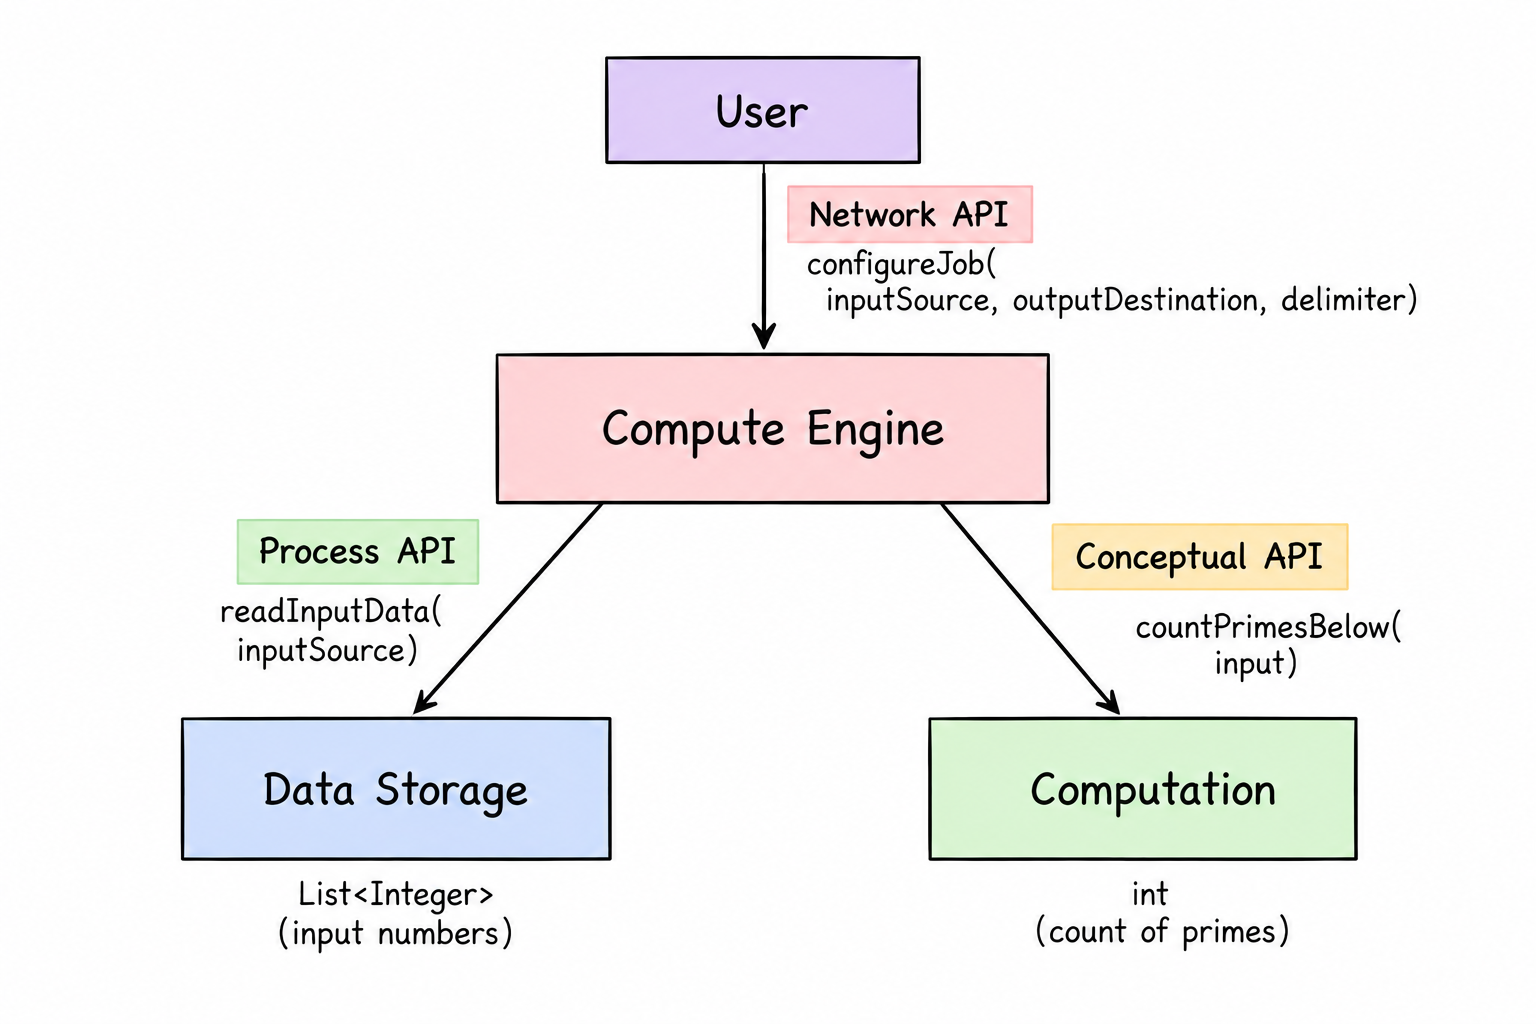
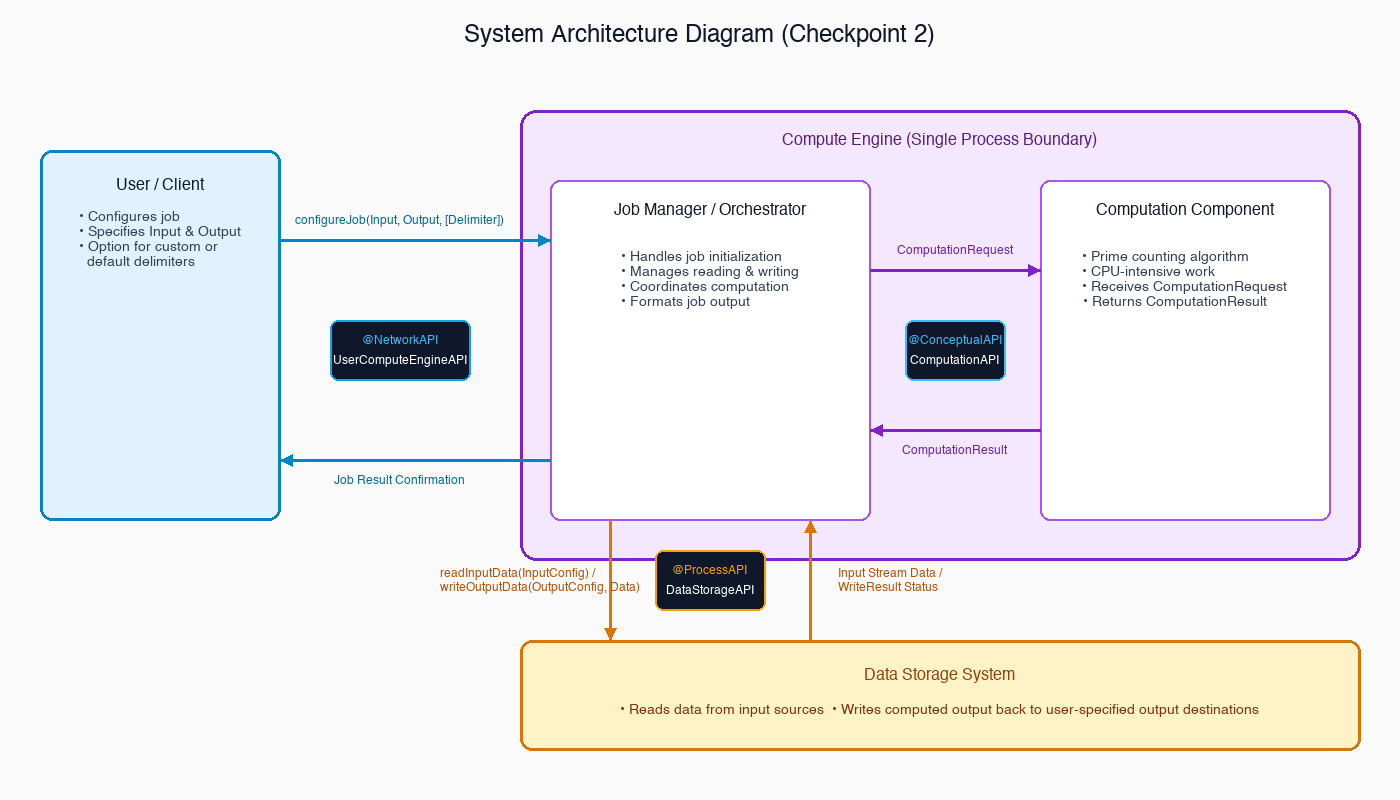
Addressing feedback comments and checkpoint 2a (#5)
* Refactor Network API: Add generic Input/Output objects and default delimiter support

* Refactor Process API: Add writeOutputData method and generic config objects

* Refactor Conceptual API: Replace primitive int with ComputationRequest and ComputationResult objects

* Update system architecture diagram and README documentation for Checkpoint 2

diff --git a/test/TestUserComputeEngineAPI.java b/test/TestUserComputeEngineAPI.java
@@ -1,9 +1,7 @@
 import api.ComputationAPI;
-import api.ComputeJobRequest;
-import api.ComputeJobResponse;
-import api.ComputeJobStatus;
 import api.DataStorageAPI;
 import api.InputConfig;
+import api.JobResult;
 import api.OutputConfig;
 import api.UserComputeEngineAPI;
 import api.UserComputeEngineAPIImpl;
@@ -11,8 +9,6 @@ import api.UserComputeEngineAPIImpl;
 import org.junit.jupiter.api.Assertions;
 import org.junit.jupiter.api.Test;
 import org.mockito.Mockito;
-
-import java.util.List;
 
 public class TestUserComputeEngineAPI {
 
@@ -23,15 +19,10 @@ public class TestUserComputeEngineAPI {
         InputConfig mockInputConfig = Mockito.mock(InputConfig.class);
         OutputConfig mockOutputConfig = Mockito.mock(OutputConfig.class);
 
-        Mockito.when(mockDataStorage.readInputData(mockInputConfig)).thenReturn(List.of(1, 10, 25));
-        Mockito.when(mockComputation.countPrimesBelow(10)).thenReturn(4);
-
         UserComputeEngineAPI engine = new UserComputeEngineAPIImpl(mockDataStorage, mockComputation);
-        ComputeJobRequest request = new ComputeJobRequest(mockInputConfig, mockOutputConfig);
-
-        ComputeJobResponse response = engine.compute(request);
+        JobResult response = engine.configureJob(mockInputConfig, mockOutputConfig);
 
         Assertions.assertNotNull(response);
-        Assertions.assertEquals(ComputeJobStatus.SUCCESS, response.getStatus());
+        Assertions.assertEquals(JobResult.Status.SUCCESS, response.getStatus());
     }
 }

diff --git a/test/InMemoryDataStorage.java b/test/InMemoryDataStorage.java
@@ -1,16 +1,12 @@
 import api.DataStorageAPI;
 import api.InputConfig;
 import api.OutputConfig;
+import api.WriteResult;
 
 import java.util.Collections;
 import java.util.List;
 
 public class InMemoryDataStorage implements DataStorageAPI {
-
-    @Override
-    public List<Integer> readInputData(String inputSource) {
-        return Collections.emptyList();
-    }
 
     @Override
     public List<Integer> readInputData(InputConfig inputConfig) {
@@ -21,9 +17,11 @@ public class InMemoryDataStorage implements DataStorageAPI {
     }
 
     @Override
-    public void writeOutputData(OutputConfig outputConfig, List<String> outputData) {
+    public WriteResult writeOutputData(OutputConfig outputConfig, List<String> outputData) {
         if (outputConfig instanceof InMemoryOutputConfig inMemoryOutput) {
             inMemoryOutput.getOutputs().addAll(outputData);
+            return new WriteResult(WriteResult.Status.SUCCESS, "Success");
         }
+        return new WriteResult(WriteResult.Status.FAILURE, "Unsupported config");
     }
 }

diff --git a/src/api/DelimiterConfig.java b/src/api/DelimiterConfig.java
@@ -1,0 +1,35 @@
+package api;
+
+public class DelimiterConfig {
+    private final String itemDelimiter;
+    private final String keyValueDelimiter;
+    private final boolean isDefault;
+
+    public DelimiterConfig(String itemDelimiter, String keyValueDelimiter) {
+        this.itemDelimiter = itemDelimiter;
+        this.keyValueDelimiter = keyValueDelimiter;
+        this.isDefault = false;
+    }
+
+    private DelimiterConfig() {
+        this.itemDelimiter = ";";
+        this.keyValueDelimiter = ":";
+        this.isDefault = true;
+    }
+
+    public static DelimiterConfig defaultConfig() {
+        return new DelimiterConfig();
+    }
+
+    public String getItemDelimiter() {
+        return itemDelimiter;
+    }
+
+    public String getKeyValueDelimiter() {
+        return keyValueDelimiter;
+    }
+
+    public boolean isDefault() {
+        return isDefault;
+    }
+}

diff --git a/src/api/UserComputeEngineAPIImpl.java b/src/api/UserComputeEngineAPIImpl.java
@@ -11,13 +11,12 @@ public class UserComputeEngineAPIImpl implements UserComputeEngineAPI {
     }
 
     @Override
-    public void configureJob(String inputSource, String outputDestination, char delimiter) {
-        // Empty implementation for checkpoint 3
+    public JobResult configureJob(InputConfig inputSource, OutputConfig outputDestination, DelimiterConfig delimiterConfig) {
+        return new JobResult(JobResult.Status.FAILURE, "Not yet implemented");
     }
 
     @Override
-    public ComputeJobResponse compute(ComputeJobRequest request) {
-        // Returns default failure response for checkpoint 3
-        return new ComputeJobResponse(ComputeJobStatus.FAILURE, "Not yet implemented");
+    public JobResult configureJob(InputConfig inputSource, OutputConfig outputDestination) {
+        return new JobResult(JobResult.Status.FAILURE, "Not yet implemented");
     }
 }

diff --git a/src/api/DataStorageAPIImpl.java b/src/api/DataStorageAPIImpl.java
@@ -9,17 +9,12 @@ public class DataStorageAPIImpl implements DataStorageAPI {
     }
 
     @Override
-    public List<Integer> readInputData(String inputSource) {
+    public List<Integer> readInputData(InputConfig inputSource) {
         return Collections.emptyList();
     }
 
     @Override
-    public List<Integer> readInputData(InputConfig inputConfig) {
-        return Collections.emptyList();
-    }
-
-    @Override
-    public void writeOutputData(OutputConfig outputConfig, List<String> outputData) {
-        // Empty implementation for checkpoint 3
+    public WriteResult writeOutputData(OutputConfig outputDestination, List<String> outputData) {
+        return new WriteResult(WriteResult.Status.FAILURE, "Not yet implemented");
     }
 }

diff --git a/src/api/DataStoragePrototype.java b/src/api/DataStoragePrototype.java
@@ -1,13 +1,21 @@
 package api;
 
 import project.annotations.ProcessAPIPrototype;
-
+import java.util.ArrayList;
 import java.util.List;
 
 public class DataStoragePrototype {
 
     @ProcessAPIPrototype
     public void prototypeDataStorage(DataStorageAPI api) {
-        List<Integer> mockData = api.readInputData("input.txt");
+        InputConfig inputSource = new FileInputConfig("input.txt");
+        OutputConfig outputDestination = new FileOutputConfig("output.txt");
+
+        List<Integer> mockInputData = api.readInputData(inputSource);
+
+        List<String> outputData = new ArrayList<>();
+        outputData.add("10:4");
+
+        WriteResult writeResult = api.writeOutputData(outputDestination, outputData);
     }
 }

diff --git a/test/ComputeEngineIntegrationTest.java b/test/ComputeEngineIntegrationTest.java
@@ -1,6 +1,5 @@
 import api.ComputationAPI;
 import api.ComputationAPIImpl;
-import api.ComputeJobRequest;
 import api.DataStorageAPI;
 import api.UserComputeEngineAPI;
 import api.UserComputeEngineAPIImpl;
@@ -21,8 +20,7 @@ public class ComputeEngineIntegrationTest {
         InMemoryInputConfig inputConfig = new InMemoryInputConfig(List.of(1, 10, 25));
         InMemoryOutputConfig outputConfig = new InMemoryOutputConfig();
 
-        ComputeJobRequest request = new ComputeJobRequest(inputConfig, outputConfig);
-        realEngine.compute(request);
+        realEngine.configureJob(inputConfig, outputConfig);
 
         Assertions.assertEquals(List.of("0", "4", "9"), outputConfig.getOutputs());
     }

diff --git a/src/api/UserComputeEnginePrototype.java b/src/api/UserComputeEnginePrototype.java
@@ -6,6 +6,14 @@ public class UserComputeEnginePrototype {
 
     @NetworkAPIPrototype
     public void prototypeUserComputeEngine(UserComputeEngineAPI api) {
-        api.configureJob("input.txt", "output.txt", ',');
+        InputConfig inputSource = new FileInputConfig("input.txt");
+        OutputConfig outputDestination = new FileOutputConfig("output.txt");
+
+        // 1. Configure job with explicit custom delimiters
+        DelimiterConfig customDelimiters = new DelimiterConfig(";", ":");
+        api.configureJob(inputSource, outputDestination, customDelimiters);
+
+        // 2. Configure job with default delimiters
+        api.configureJob(inputSource, outputDestination);
     }
 }

diff --git a/test/TestComputationAPI.java b/test/TestComputationAPI.java
@@ -1,5 +1,7 @@
 import api.ComputationAPI;
 import api.ComputationAPIImpl;
+import api.ComputationRequest;
+import api.ComputationResult;
 
 import org.junit.jupiter.api.Assertions;
 import org.junit.jupiter.api.Test;
@@ -10,8 +12,9 @@ public class TestComputationAPI {
     public void testCountPrimesBelowSmoke() {
         ComputationAPI computation = new ComputationAPIImpl();
 
-        int result = computation.countPrimesBelow(10);
+        ComputationResult result = computation.countPrimesBelow(new ComputationRequest(10));
 
-        Assertions.assertEquals(4, result);
+        Assertions.assertNotNull(result);
+        Assertions.assertEquals(4, result.getPrimeCount());
     }
 }

diff --git a/src/api/UserComputeEngineAPI.java b/src/api/UserComputeEngineAPI.java
@@ -5,11 +5,9 @@ import project.annotations.NetworkAPI;
 @NetworkAPI
 public interface UserComputeEngineAPI {
 
-    void configureJob(
-            String inputSource,
-            String outputDestination,
-            char delimiter
-    );
+    // Method allowing custom delimiters
+    JobResult configureJob(InputConfig inputSource, OutputConfig outputDestination, DelimiterConfig delimiterConfig);
 
-    ComputeJobResponse compute(ComputeJobRequest request);
+    // Method allowing default delimiters
+    JobResult configureJob(InputConfig inputSource, OutputConfig outputDestination);
 }

diff --git a/src/api/JobResult.java b/src/api/JobResult.java
@@ -1,16 +1,17 @@
 package api;
 
-public class ComputeJobResponse {
+public class JobResult {
+    public enum Status { SUCCESS, FAILURE }
 
-    private final ComputeJobStatus status;
+    private final Status status;
     private final String message;
 
-    public ComputeJobResponse(ComputeJobStatus status, String message) {
+    public JobResult(Status status, String message) {
         this.status = status;
         this.message = message;
     }
 
-    public ComputeJobStatus getStatus() {
+    public Status getStatus() {
         return status;
     }
 

diff --git a/src/api/WriteResult.java b/src/api/WriteResult.java
@@ -1,0 +1,21 @@
+package api;
+
+public class WriteResult {
+    public enum Status { SUCCESS, FAILURE }
+
+    private final Status status;
+    private final String message;
+
+    public WriteResult(Status status, String message) {
+        this.status = status;
+        this.message = message;
+    }
+
+    public Status getStatus() {
+        return status;
+    }
+
+    public String getMessage() {
+        return message;
+    }
+}
